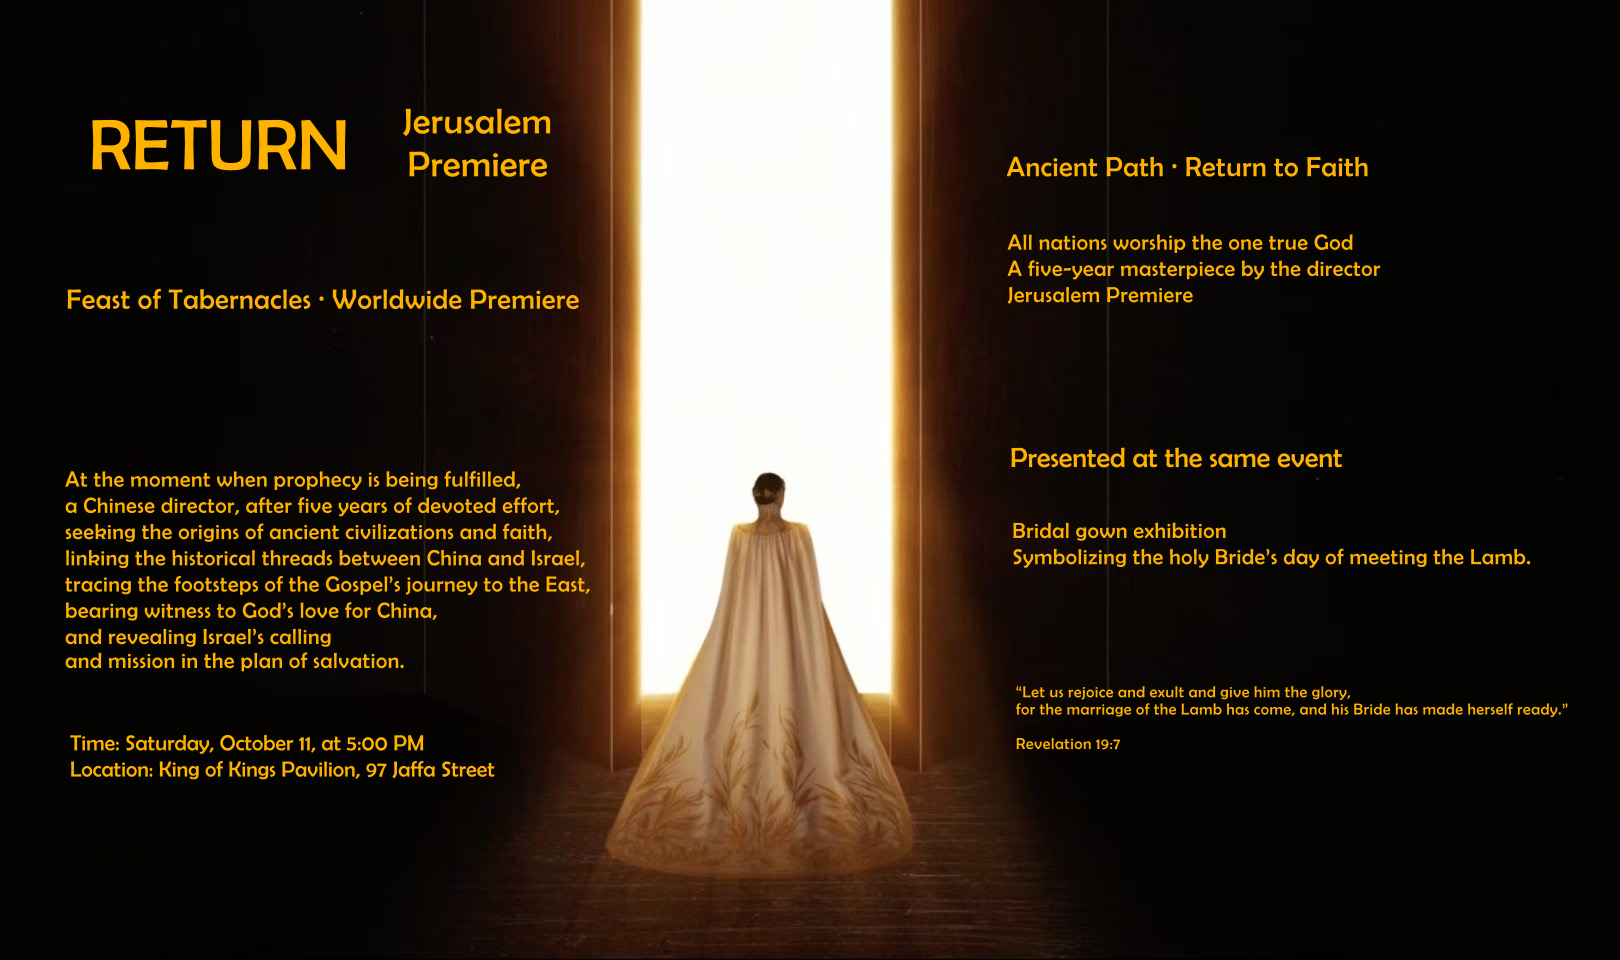
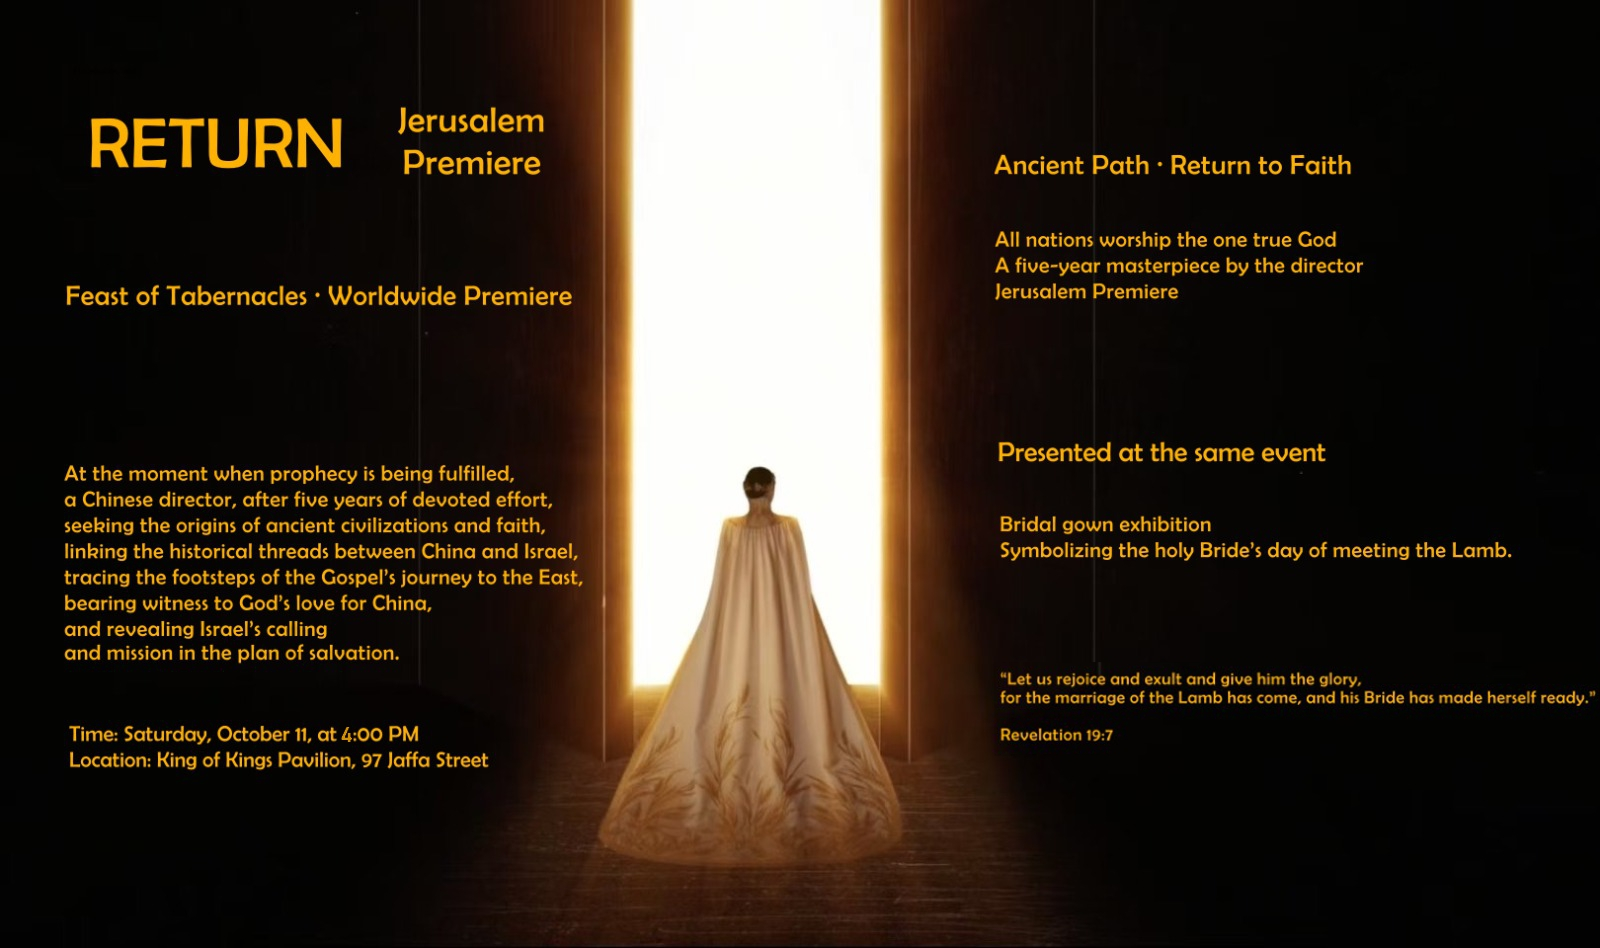
updated posters

diff --git a/return.html b/return.html
@@ -328,10 +328,25 @@
 <body>
     <header>
         <h1>回歸 RETURN</h1>
-        <p class="subtitle">全球首映 Worldwide Premiere</p>
+        <p class="subtitle">耶路撒冷首映 Jerusalem Premiere</p>
     </header>
 
     <div class="container">
+        <section class="video-section">        
+            <h2>住棚節期間 · 耶路撒冷首映 <br/>
+            Jerusalem Premiere<br/>
+            Feast of Tabernacles
+            </h2>            
+            <div class="gallery">
+                <div class="gallery-item">
+                    <img src="poster_trad.png" alt="Poster Zh">
+                </div>
+                <div class="gallery-item">
+                    <img src="poster_eng.png" alt="Poster En">
+                </div>
+            </div>
+        </section>
+
         <article>
             <div class="article-header">
                 <h2>古道尋根 · 信仰回歸</h2>
@@ -386,19 +401,7 @@
                 </div>
             </div>
         </article>
-
-        <section class="video-section">        
-            <h2>住棚節期間 · 全球首映 <br/>
-            Feast of Tabernacles · Worldwide Premiere</h2>            
-            <div class="gallery">
-                <div class="gallery-item">
-                    <img src="poster_trad.png" alt="Poster Zh">
-                </div>
-                <div class="gallery-item">
-                    <img src="poster_eng.png" alt="Poster En">
-                </div>
-            </div>
-        </section>
+        
     </div>
 
     <footer>
